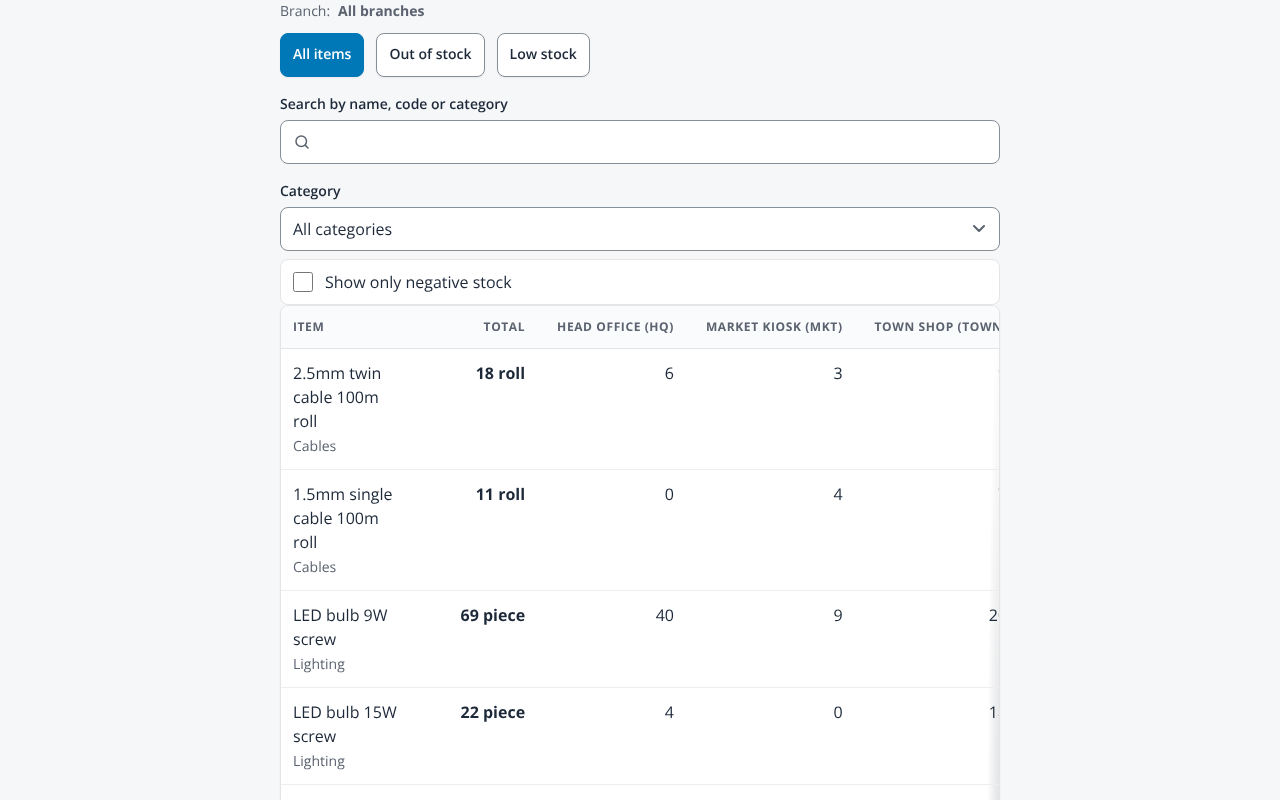
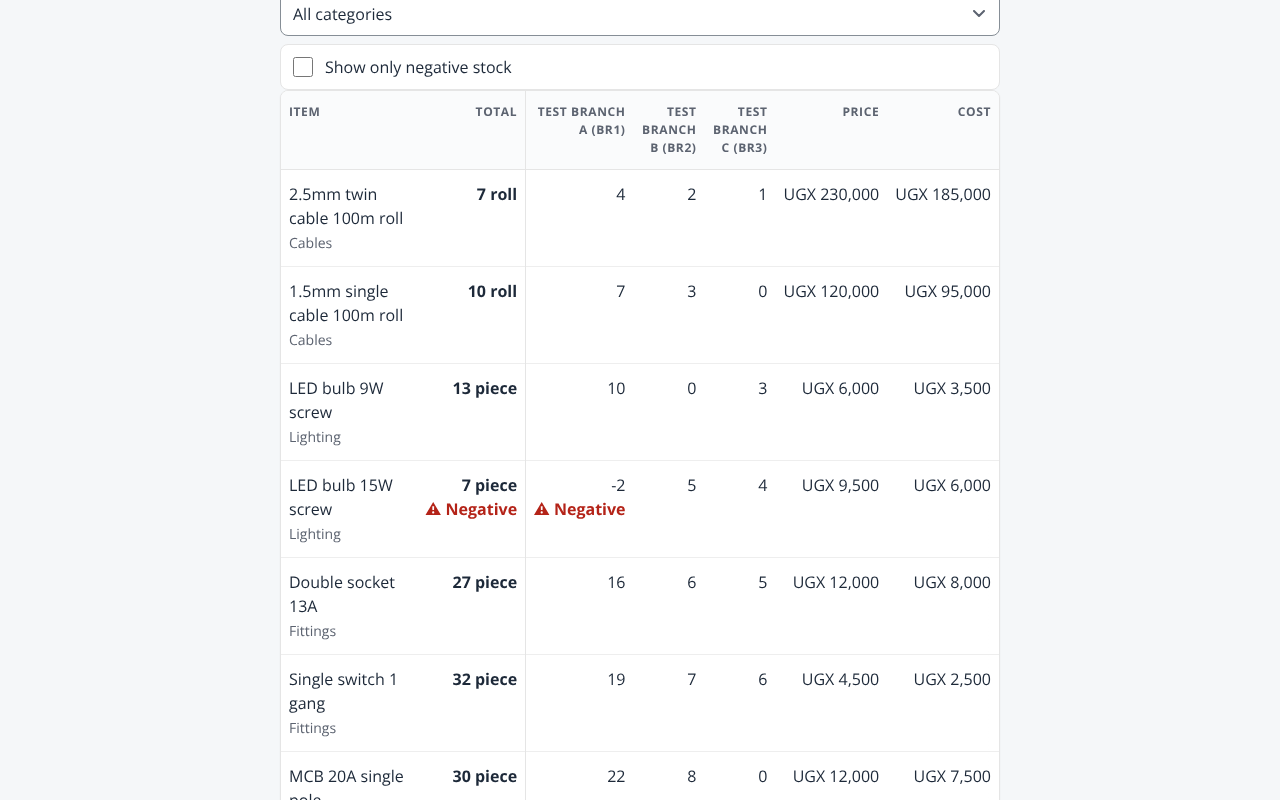
Keep Item and Total in view and scroll only the branch columns of the All branches stock table, new desktop screenshot (#145)
Claude-Session: https://claude.ai/code/session_01U1caEaopzw3ohsZgAkUTZa

diff --git a/frontend/src/app/ui/tables.css b/frontend/src/app/ui/tables.css
@@ -93,3 +93,43 @@ tfoot td {
     padding: var(--space-3) var(--space-4);
   }
 }
+
+/*
+ * Stock in every branch (#144): the Item and Total columns stay in view while only the branch columns
+ * scroll sideways, so a third or fourth branch never pushes Price and Cost off the screen.
+ */
+.stock-matrix th:first-child,
+.stock-matrix td:first-child {
+  position: sticky;
+  left: 0;
+  z-index: 1;
+  width: 8.5em;
+  min-width: 8.5em;
+  max-width: 8.5em;
+  background: var(--color-surface);
+}
+
+.stock-matrix th:nth-child(2),
+.stock-matrix td:nth-child(2) {
+  position: sticky;
+  left: 8.5em;
+  z-index: 1;
+  background: var(--color-surface);
+  box-shadow: 1px 0 0 var(--color-border);
+}
+
+.stock-matrix th:first-child,
+.stock-matrix th:nth-child(2) {
+  background: var(--color-surface-muted);
+}
+
+.stock-matrix th {
+  white-space: normal;
+  min-width: 4.5em;
+}
+
+.stock-matrix th,
+.stock-matrix td {
+  padding-left: var(--space-2);
+  padding-right: var(--space-2);
+}

diff --git a/frontend/src/areas/staff/retail/stock.tsx b/frontend/src/areas/staff/retail/stock.tsx
@@ -60,7 +60,7 @@ export function AllBranchesTable({ data, showCost: mayCost }: { data: AllBranche
   const showCost = mayCost && data.items.some((r) => r.cost_minor !== undefined);
   if (data.items.length === 0) return <p className="empty-state">No items found.</p>;
   return (
-    <div className="table-wrap" tabIndex={0}><table>
+    <div className="table-wrap" tabIndex={0}><table className="stock-matrix">
       <thead>
         <tr>
           <th>Item</th>

diff --git a/docs/ui/design-system/parity/README.md b/docs/ui/design-system/parity/README.md
@@ -21,7 +21,7 @@ Phone files are 360x740, desktop files 1280x800; no screen overflowed sideways a
 | `09-credit-sale-detail-phone` | A sale opened: facts, lines, paid and still owed, profit (admin only) |
 | `10-all-sales-phone` | All sales with its filters |
 | `11-sale-choose-branch-phone` | Record a sale with All branches chosen: the branches as buttons |
-| `20-stock-all-branches-desktop` | Stock with All branches on a wide screen: a quantity column per branch and the total |
+| `20-stock-all-branches-desktop` | Stock with All branches on a wide screen with three branches: the Item and Total columns stay in view (sticky), the branch columns are the ones that scroll, and Price and Cost are not cut off. Re-taken after the review of #154 from the built-in fabricated mock data (`VITE_RETAIL_MOCK=1`, three branches, headless Chromium at 1280x800), not the real stack |
 | `22-credit-sales-desktop` | Credit sales on a wide screen |
 
 The walk scripts are not committed.
